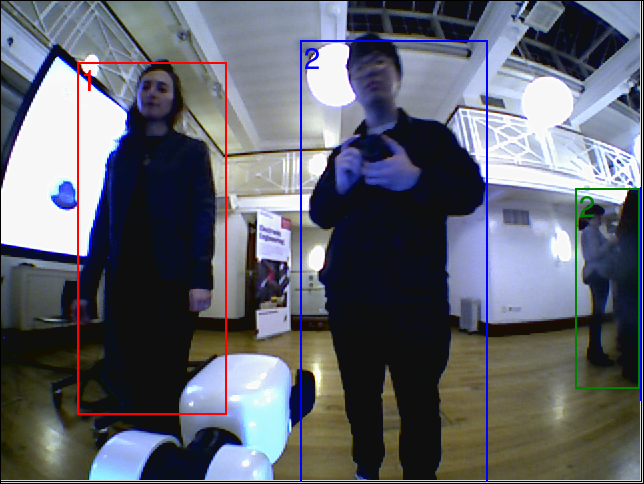
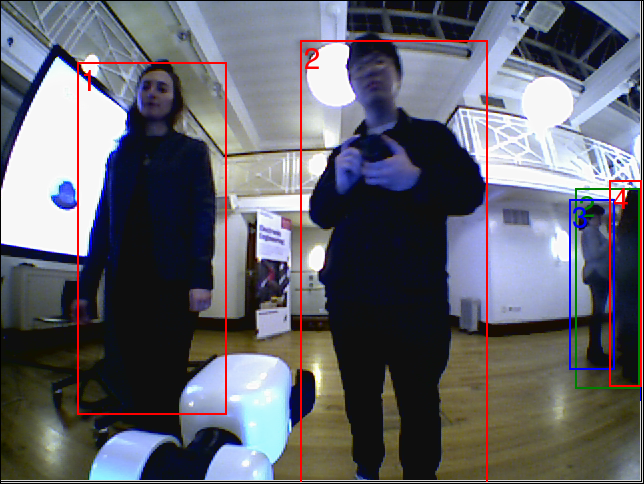
better bbox deletion; added button for setting next bbox id in human-notation script; keybinding images added as aid images in both annotation scripts

Changed region(s): [[0.8696, 0.3719, 1.0, 0.8058], [0.4658, 0.062, 0.7453, 0.155]]

diff --git a/src/mod-hum-annotation.py b/src/mod-hum-annotation.py
@@ -1,7 +1,7 @@
 #!/usr/bin/env python
 # -*- coding: utf-8 -*-
 
-from Tkinter import Tk, Canvas, Frame, BOTH, Listbox, Toplevel, Message, Button, Entry, Scrollbar, Scale, IntVar
+from Tkinter import Tk, Canvas, Frame, BOTH, Listbox, Toplevel, Message, Button, Entry, Scrollbar, Scale, IntVar, StringVar
 from Tkinter import N, S, W, E, NW, SW, NE, SE, CENTER, END, LEFT, RIGHT, X, Y, TOP, BOTTOM, HORIZONTAL, DISABLED
 from PIL import Image
 from PIL import ImageDraw
@@ -467,7 +467,7 @@ class AAController:
                     print "No frames to propagate"
         else:
             self.cur_frame()
-        # self.export_xml_filename("save.xml")
+        self.export_xml_filename("save.xml")
         return self.cur_image
 
     def next_frame_prop_current_rect(self, rect_index):
@@ -530,12 +530,12 @@ class AAController:
                 self.frames[self.cur_frame_nr].rects.append(rect_propagated)
 
         # self.curFrame()
-        # self.export_xml_filename("save.xml")
+        self.export_xml_filename("save.xml")
         return self.cur_image
 
     def change_frame(self, id_frame):
         self.cur_frame_nr = int(id_frame) - 1
-        # self.export_xml_filename("save.xml")
+        self.export_xml_filename("save.xml")
         return self.cur_frame()
 
     def next_frame_far(self):
@@ -543,13 +543,13 @@ class AAController:
             self.cur_frame_nr += JUMP_FRAMES
         else:
             self.cur_frame_nr = len(self.filenames) - 1
-        # self.export_xml_filename("save.xml")
+        self.export_xml_filename("save.xml")
         return self.cur_frame()
 
     def prev_frame(self):
         if self.cur_frame_nr > 0:
             self.cur_frame_nr -= 1
-        # self.export_xml_filename("save.xml")
+        self.export_xml_filename("save.xml")
         return self.cur_frame()
 
     def prev_frame_far(self):
@@ -557,7 +557,7 @@ class AAController:
             self.cur_frame_nr -= JUMP_FRAMES
         else:
             self.cur_frame_nr = 0
-        # self.export_xml_filename("save.xml")
+        self.export_xml_filename("save.xml")
         return self.cur_frame()
 
     def get_rects(self):
@@ -669,7 +669,7 @@ class AAController:
 
             for (j, r) in enumerate(f.get_rects()):
                 print >> fd, "	<object>"
-                print >> fd, "		<name>" + classnames[self.class_assignations[i][r.object_id]] + "</name>"
+                print >> fd, "		<name>" + str(self.class_assignations[i][r.object_id]) + "</name>"
                 print >> fd, "		<pose>unknown</pose>"
                 print >> fd, "		<truncated>-1</truncated>"
                 print >> fd, "		<difficult>0</difficult>"
@@ -684,6 +684,7 @@ class AAController:
             print >> fd, "</annotation>"
             fd.close()
         print "Done !"
+        tkMessageBox.showinfo("VOC export", "File(s) saved successfully!")
 
     def parse_xml(self):
         tree = xml.parse(self.output_filename)
@@ -813,6 +814,7 @@ class Example(Frame):
 
         if cfg.AID_IMG != 'default':
             self.aid_img = self.ct.set_aid()
+            self.aid_img = self.aid_img.resize((361, 836), Image.ANTIALIAS)
             self.aid_frame = ImageTk.PhotoImage(self.aid_img)
 
         self.img_trash = ImageTk.PhotoImage(Image.open(self.cur_path + "/trashcan.png"))
@@ -831,6 +833,9 @@ class Example(Frame):
             self.aid_canvas.create_image(0,0, anchor=NW, image=self.aid_frame)
 
         self.object_id_box = Listbox(self.parent, width=50)
+        self.id_text_var = StringVar()
+        self.id_text_var.set("Next id: 0")
+        self.id_setter = Button(self.parent, textvariable=self.id_text_var)
         self.switch_button = Button(self.parent, text="RGB <-> Depth", state=DISABLED)
         self.save_button = Button(self.parent, text="SAVE")
         self.export_2voc = Button(self.parent, text="EXPORT2VOC")
@@ -842,13 +847,14 @@ class Example(Frame):
         self.canvas.grid(row=0, column=0, rowspan=6)
         self.object_id_box.grid(row=0, column=1, sticky=N + S)
         self.fn_entry.grid(row=1, column=1)
-        self.switch_button.grid(row=2, column=1)
+        self.id_setter.grid(row=2, column=1)
+        # self.switch_button.grid(row=2, column=1)
         self.save_button.grid(row=3, column=1)
         self.export_2voc.grid(row=4, column=1)
         self.quit_button.grid(row=5, column=1)
         self.xscale.grid(row=6, sticky=W + E)
         if cfg.AID_IMG != 'default':
-            self.aid_canvas.grid(row=1, column=2, rowspan=6)
+            self.aid_canvas.grid(row=0, column=3, rowspan=6)
 
         # bindings
         self.canvas.bind("<Key-Left>", self.prev_frame)
@@ -872,7 +878,7 @@ class Example(Frame):
         self.object_id_box.bind("<Key-space>", self.next_frame_w_rop)  # the space key
         self.canvas.bind("<Key-space>", self.next_frame_w_rop)  # the space key
         self.object_id_box.bind("<<ListboxSelect>>", self.object_id_box_click)
-        # self.switch_button.bind("<Button-1>", self.activate_switch)
+        self.id_setter.bind("<Button-1>", self.set_next_id)
         self.save_button.bind("<Button-1>", self.save_xml)
         self.export_2voc.bind("<Button-1>", self.save_xml2voc)
         self.quit_button.bind("<Button-1>", self.quit)
@@ -883,6 +889,7 @@ class Example(Frame):
         self.mousey = 1
         print 'curframe ', self.ct.cur_frame_nr
         self.object_id_proposed_for_new_rect = len(self.ct.class_assignations[self.ct.cur_frame_nr].keys()) + 1
+        self.id_text_var.set("Next id: %d" % self.object_id_proposed_for_new_rect)
         self.display_anno()
         self.display_class_assignations()
         self.fn_entry.delete(0, END)
@@ -1063,6 +1070,7 @@ class Example(Frame):
         self.ct.export_xml()
         self.check_validity()
         self.is_modified = False
+        tkMessageBox.showinfo("Save", "File saved successfully!")
 
     def save_xml2voc(self, event):
         if cfg.BBOX_PREFIX != 'default':
@@ -1164,6 +1172,7 @@ class Example(Frame):
                         self.ct.use_object_id(self.cur_object_id)
                         self.display_class_assignations()
                         self.object_id_proposed_for_new_rect = self.object_id_proposed_for_new_rect + 1
+                        self.id_text_var.set("Next id: %d" % self.object_id_proposed_for_new_rect)
             self.curx2 = event.x
             self.cury2 = event.y
         self.state = ""
@@ -1297,6 +1306,12 @@ class Example(Frame):
     def debug_event(self, title):
         self.event_counter += 1
         print 'event #' + str(self.event_counter), title
+
+    def set_next_id(self, event):
+        given_id = tkSimpleDialog.askinteger('Set Next ID',
+                                             'Enter the id for the next bounding box you draw')
+        self.object_id_proposed_for_new_rect = given_id
+        self.id_text_var.set("Next id %d" % self.object_id_proposed_for_new_rect)
 
 
 def onexit():

diff --git a/src/mod-actanno.py b/src/mod-actanno.py
@@ -768,6 +768,7 @@ class Example(Frame):
 		self.cur_frame = ImageTk.PhotoImage(self.img)
 
 		self.aid_img = self.ct.set_aid()
+		self.aid_img = self.aid_img.resize((340, 808), Image.ANTIALIAS)
 		self.aid_frame = ImageTk.PhotoImage(self.aid_img)
 
 		self.img_trash = ImageTk.PhotoImage(Image.open(self.cur_path + "/trashcan.png"))
@@ -1222,7 +1223,7 @@ class Example(Frame):
 	def object_id_box_click(self, event):
 		self.clicked_object_id = self.object_id_box.curselection()
 		top = self.class_dlg = Toplevel()
-		length_of_dialog_box = 25 * len(classnames)
+		length_of_dialog_box = 30 * len(classnames)
 		top.geometry("400x" + str(length_of_dialog_box) + "+" + str(self.winfo_rootx()) + "+" + str(self.winfo_rooty()))
 		top.title("Enter class label for chosen object")
 		class_id = 0
